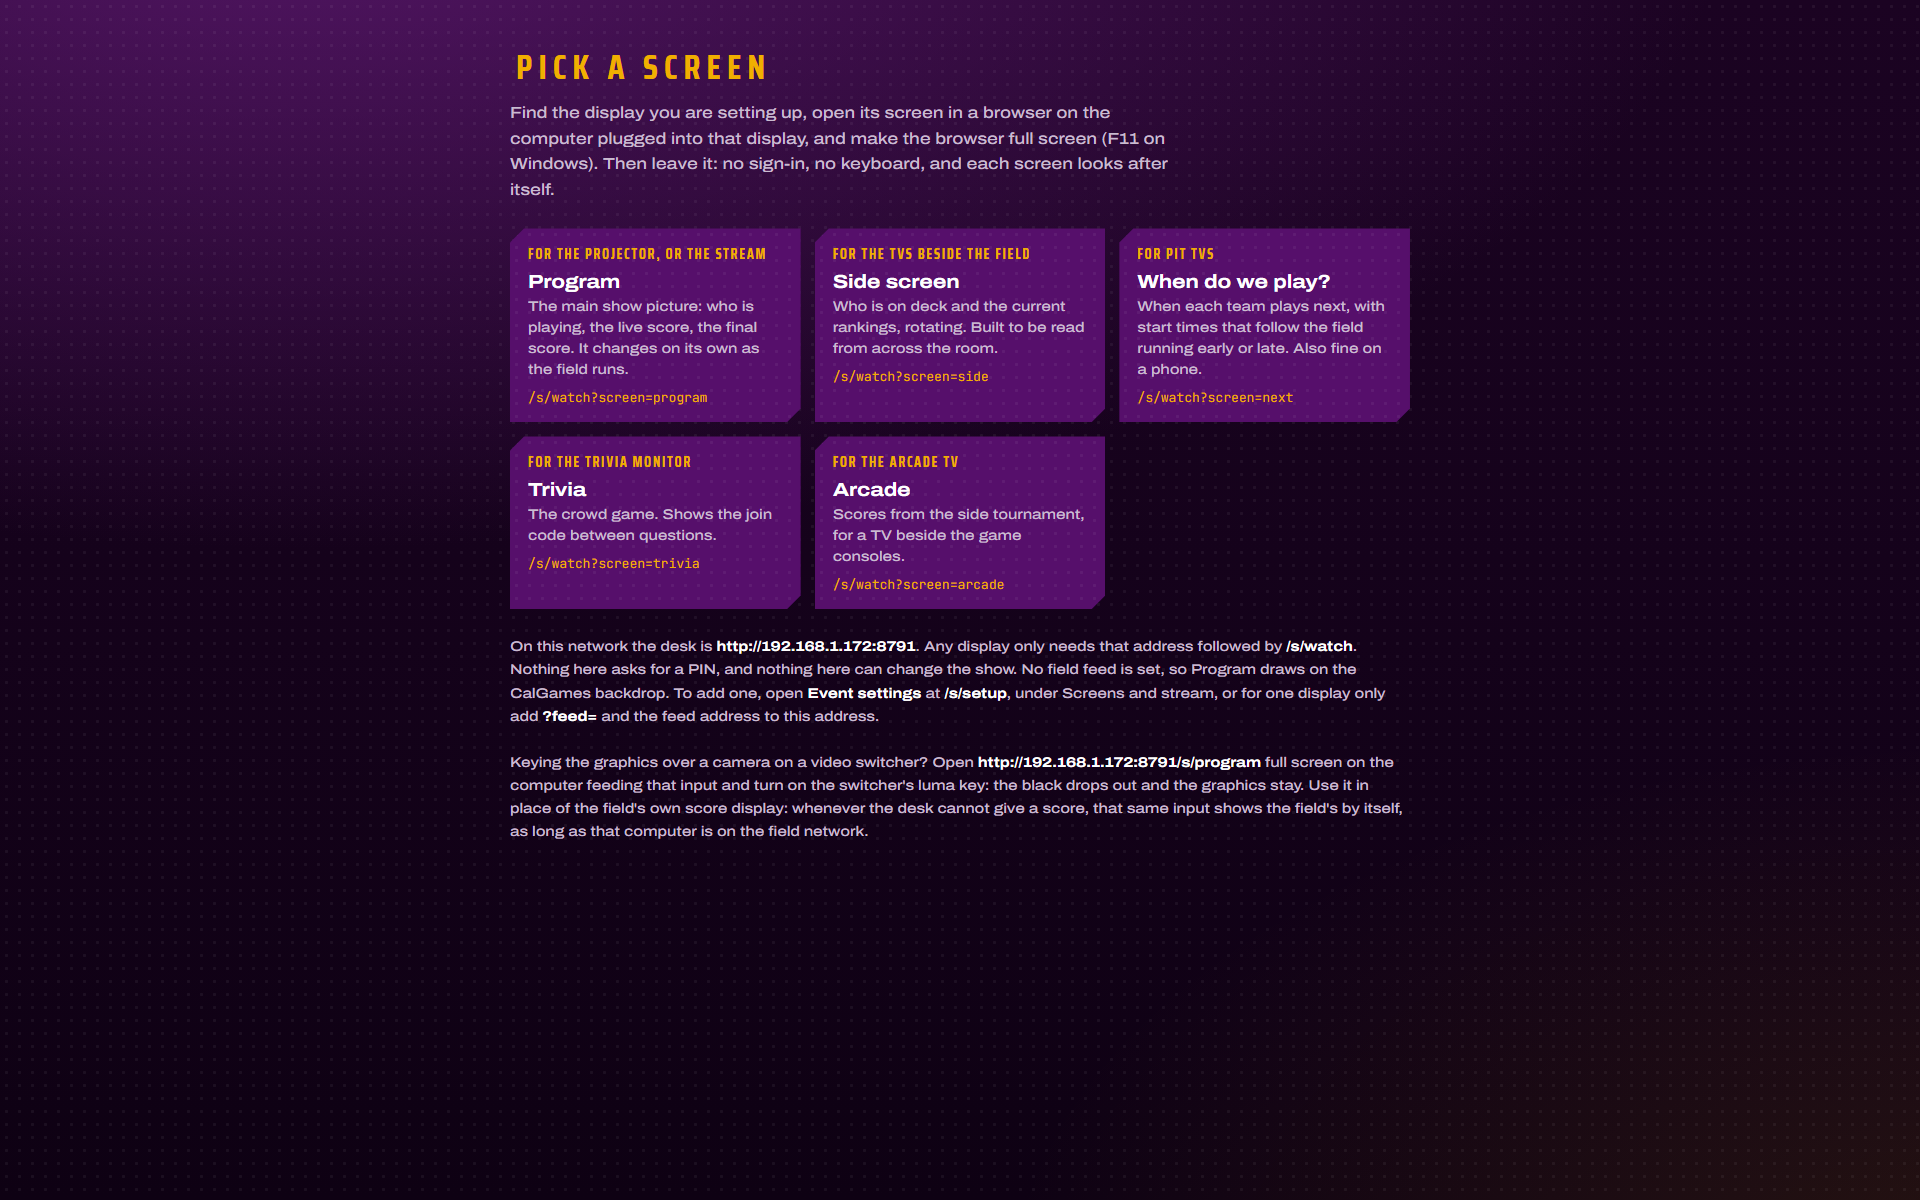
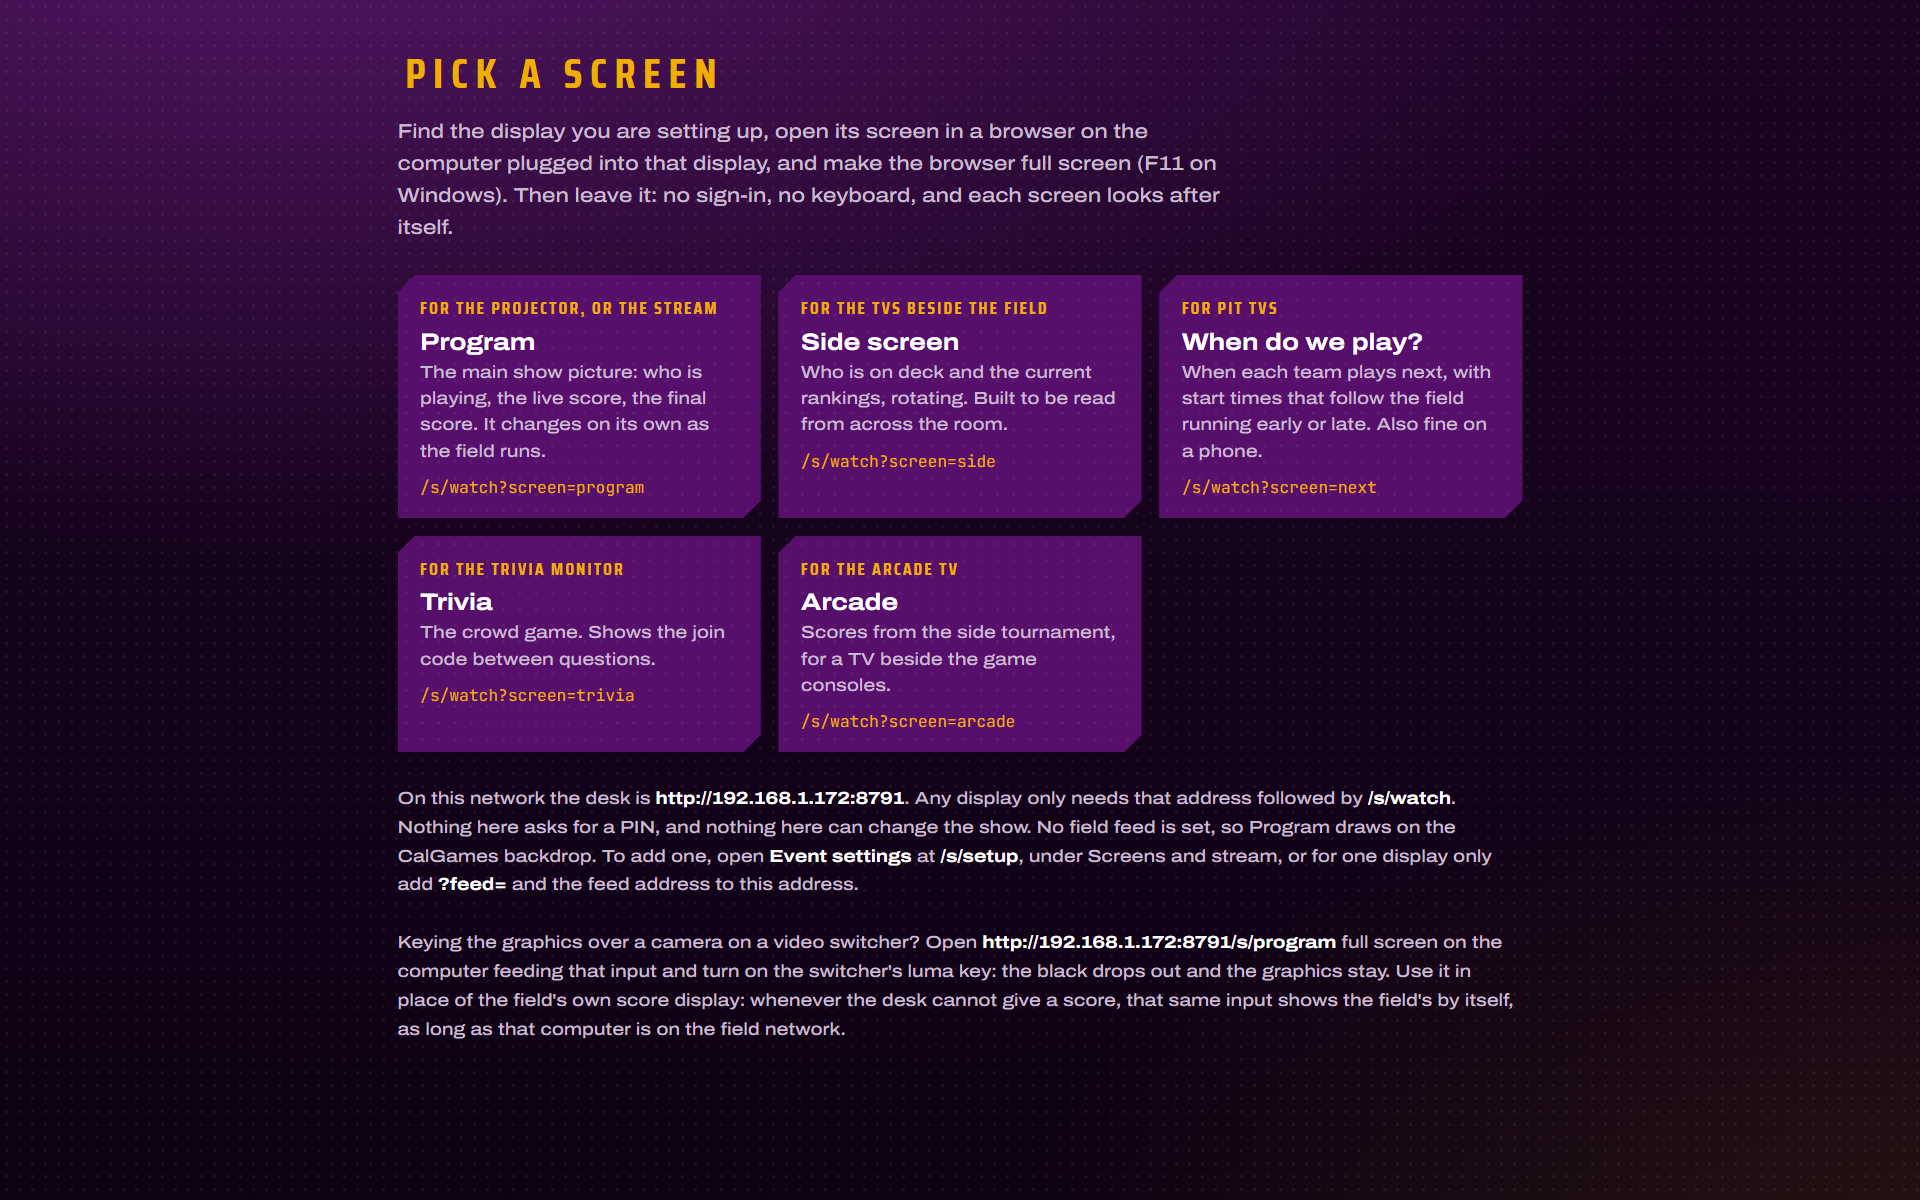
Every audience screen reviewed: a hidden word, card marks, plates and phones
A walkthrough of every audience-facing render found and fixed:
- The explainer showed a blank gap where its gold word belongs. The fonts
  are font-display: block, so text is invisible until its file loads, and
  a weight was only fetched the first time something used it. Every screen
  now asks for all its faces as it loads.
- The yellow card mark was a thin gold outline, about 2:1 on the red bar.
  It is now gold inside a white rim; red stays a plain white block.
- The unearned RP plate goes back to 30 percent black, which stays clear
  of the luma key's cut on the keyed feed; its text is full white, 7.7:1
  on red and 9.5:1 on blue.
- Alliance selection numbers 36px to 42px for the LED wall.
- Pick a screen scales up a quarter on a TV-sized screen.
- Phone previews render 500 px wide: headless Chrome will not lay a window
  out narrower, so the 430 px captures showed a phone page cut off at the
  right when the real page fits. Measured live at 430 px: nothing
  overflows.

Full suite 1067/1067.

Changed region(s): [[0.1875, 0.0308, 0.8125, 0.74], [0.1875, 0.7708, 0.7812, 0.8633]]

diff --git a/surfaces/_shared/broadcast.css b/surfaces/_shared/broadcast.css
@@ -388,14 +388,15 @@
 /* Badges sit on the alliance fills here: recess the unearned state instead of
    operator purple (purple on FIRST blue is the palette's one hazard), and skip
    the box-shadow ring, which the luma key strips anyway. Mirrors .final-rp. */
-.bar-rp .rp { background: rgba(0, 0, 0, .45); box-shadow: none; color: var(--cg-white); }
+.bar-rp .rp { background: rgba(0, 0, 0, .30); box-shadow: none; color: var(--cg-white); }
 .bar-rp .rp[data-earned="true"] { background: var(--cg-white); color: var(--side-ink, var(--cg-black)); }
 /* Earned is a WHITE chip with the alliance colour for its ink; unearned is
-   a deep recessed plate with full white ink. The difference is brightness,
-   not hue, so it reads for red-green colourblind viewers too, and nothing
-   on it is dark enough for the luma key to punch through. Measured: earned
-   red ink on white 4.4:1, blue 5.9:1; unearned white on the plate over red
-   10.3:1, over blue 12.0:1. The old thin green edge for a point earned on
+   a recessed plate with full white ink. The difference is brightness, not
+   hue, so it reads for red-green colourblind viewers too. The plate stays at
+   30 percent black: any deeper and it nears the luma key's cut on the keyed
+   feed. Measured: earned red ink on white 4.4:1, blue 5.9:1; unearned white
+   on the plate over red 7.7:1, over blue 9.5:1 (it was 72 percent white,
+   4.5:1). The old thin green edge for a point earned on
    a guess measured 1.24:1 on red and is gone: earned looks earned. */
 
 /* Centered in the bar by default. The program now goes from the switcher
@@ -711,7 +712,7 @@
 .final-rp { display: flex; gap: 12px; }
 /* Badges sit on an alliance fill here, not on chrome. Recess the unearned
    state instead of borrowing operator purple. */
-.final-rp .rp { background: rgba(0, 0, 0, .45); box-shadow: none; color: var(--cg-white); }
+.final-rp .rp { background: rgba(0, 0, 0, .30); box-shadow: none; color: var(--cg-white); }
 .final-rp .rp[data-earned="true"] { background: var(--cg-white); color: var(--side-ink, var(--cg-black)); }
 /* "Leading" on a guess is a smaller claim than "Winner" and must not read as
    the same word at a glance: smaller type and no gold. White, though: the
@@ -950,9 +951,11 @@
    Four is the CalGames alliance size: captain plus three, no backup call. */
 .sel-al-teams { display: grid; grid-template-columns: repeat(var(--n, 4), 1fr);
   gap: 10px; align-items: center; }
+/* 42px, up from 36: the board is read off an LED wall across the gym, and
+   four 4-digit teams still fit a row of the two-column board with room. */
 .sel-al-team {
   text-align: center;
-  font-family: var(--font-num); font-weight: 900; font-size: 36px; line-height: 1;
+  font-family: var(--font-num); font-weight: 900; font-size: 42px; line-height: 1;
   color: var(--cg-white); font-variant-numeric: tabular-nums; letter-spacing: -.01em;
 }
 /* The captain reads differently from its picks, which is the only hierarchy
@@ -1128,9 +1131,13 @@
    carded team showed nothing at all on the keyed feed. box-sizing keeps the
    outer size identical to the red mark's, so the two still differ in fill and
    weight rather than in footprint. */
+/* Then a gold fill inside a white rim. The bare gold outline was hard to see:
+   gold on the red bar is about 2:1. Filled gold reads on blue, the white rim
+   carries it on red, and the two marks still differ in more than colour: a
+   two-tone block with a rim against a plain white block. */
 .cmark--yellow {
-  background: none;
-  border: .13em solid var(--cg-gold);
+  background: var(--cg-gold);
+  border: .11em solid var(--cg-white);
   box-sizing: border-box;
 }
 /* Filled and larger: a red is heavier than a yellow at a glance, and now the

diff --git a/surfaces/_shared/desk-client.js b/surfaces/_shared/desk-client.js
@@ -12,6 +12,24 @@
  *    without anyone noticing, and never show an error state on the broadcast.
  */
 
+/*
+ * Every face and weight fonts.css declares, asked for as the page loads.
+ * The faces are font-display: block (a fallback face would overflow the
+ * condensed layouts), so text stays INVISIBLE until its file arrives, and a
+ * browser only fetches a weight the first time something uses it. The
+ * explainer's bold word appeared after the page had settled and showed as a
+ * blank gap in the middle of its sentence until Saira Condensed 700 loaded.
+ * Asking for all of them up front means a weight is already there when a
+ * screen first needs it.
+ */
+if (typeof document !== 'undefined' && document.fonts?.load) {
+  for (const face of ['600 1em "Saira Condensed"', '700 1em "Saira Condensed"',
+    '700 1em Chivo', '900 1em Chivo', '800 1em Archivo', '400 1em "JetBrains Mono"',
+    '600 1em "JetBrains Mono"']) {
+    document.fonts.load(face).catch(() => { /* the face stays blocked, as before */ });
+  }
+}
+
 export const REBUILT = {
   AUTO_START: -20, TELEOP_START: 0, TRANSITION_END: 10,
   SHIFT_SECONDS: 25, SHIFT_COUNT: 4, ENDGAME_START: 110, MATCH_END: 140,

diff --git a/surfaces/watch/index.html b/surfaces/watch/index.html
@@ -97,6 +97,10 @@ body { background: transparent; }
   background-size: var(--tex-perf-size), cover, cover, cover;
   padding: 40px 32px 60px; box-sizing: border-box; }
 .menu-in { max-width: 900px; margin: 0 auto; }
+/* The chooser is usually opened on the very TV it sets up, and read from a
+   couple of metres away: on a TV-sized screen the whole thing scales up a
+   quarter, which still fits a 1080-line screen top to bottom. */
+@media (min-width: 1700px) { .menu-in { zoom: 1.25; } }
 h1 { margin: 0 0 6px; font-family: var(--font-cond); font-weight: 700; font-size: 34px;
   letter-spacing: .18em; text-indent: .18em; text-transform: uppercase; color: var(--cg-gold); }
 .lead { color: var(--cg-white-dim); font-size: 16px; line-height: 1.6; margin: 0 0 26px;
